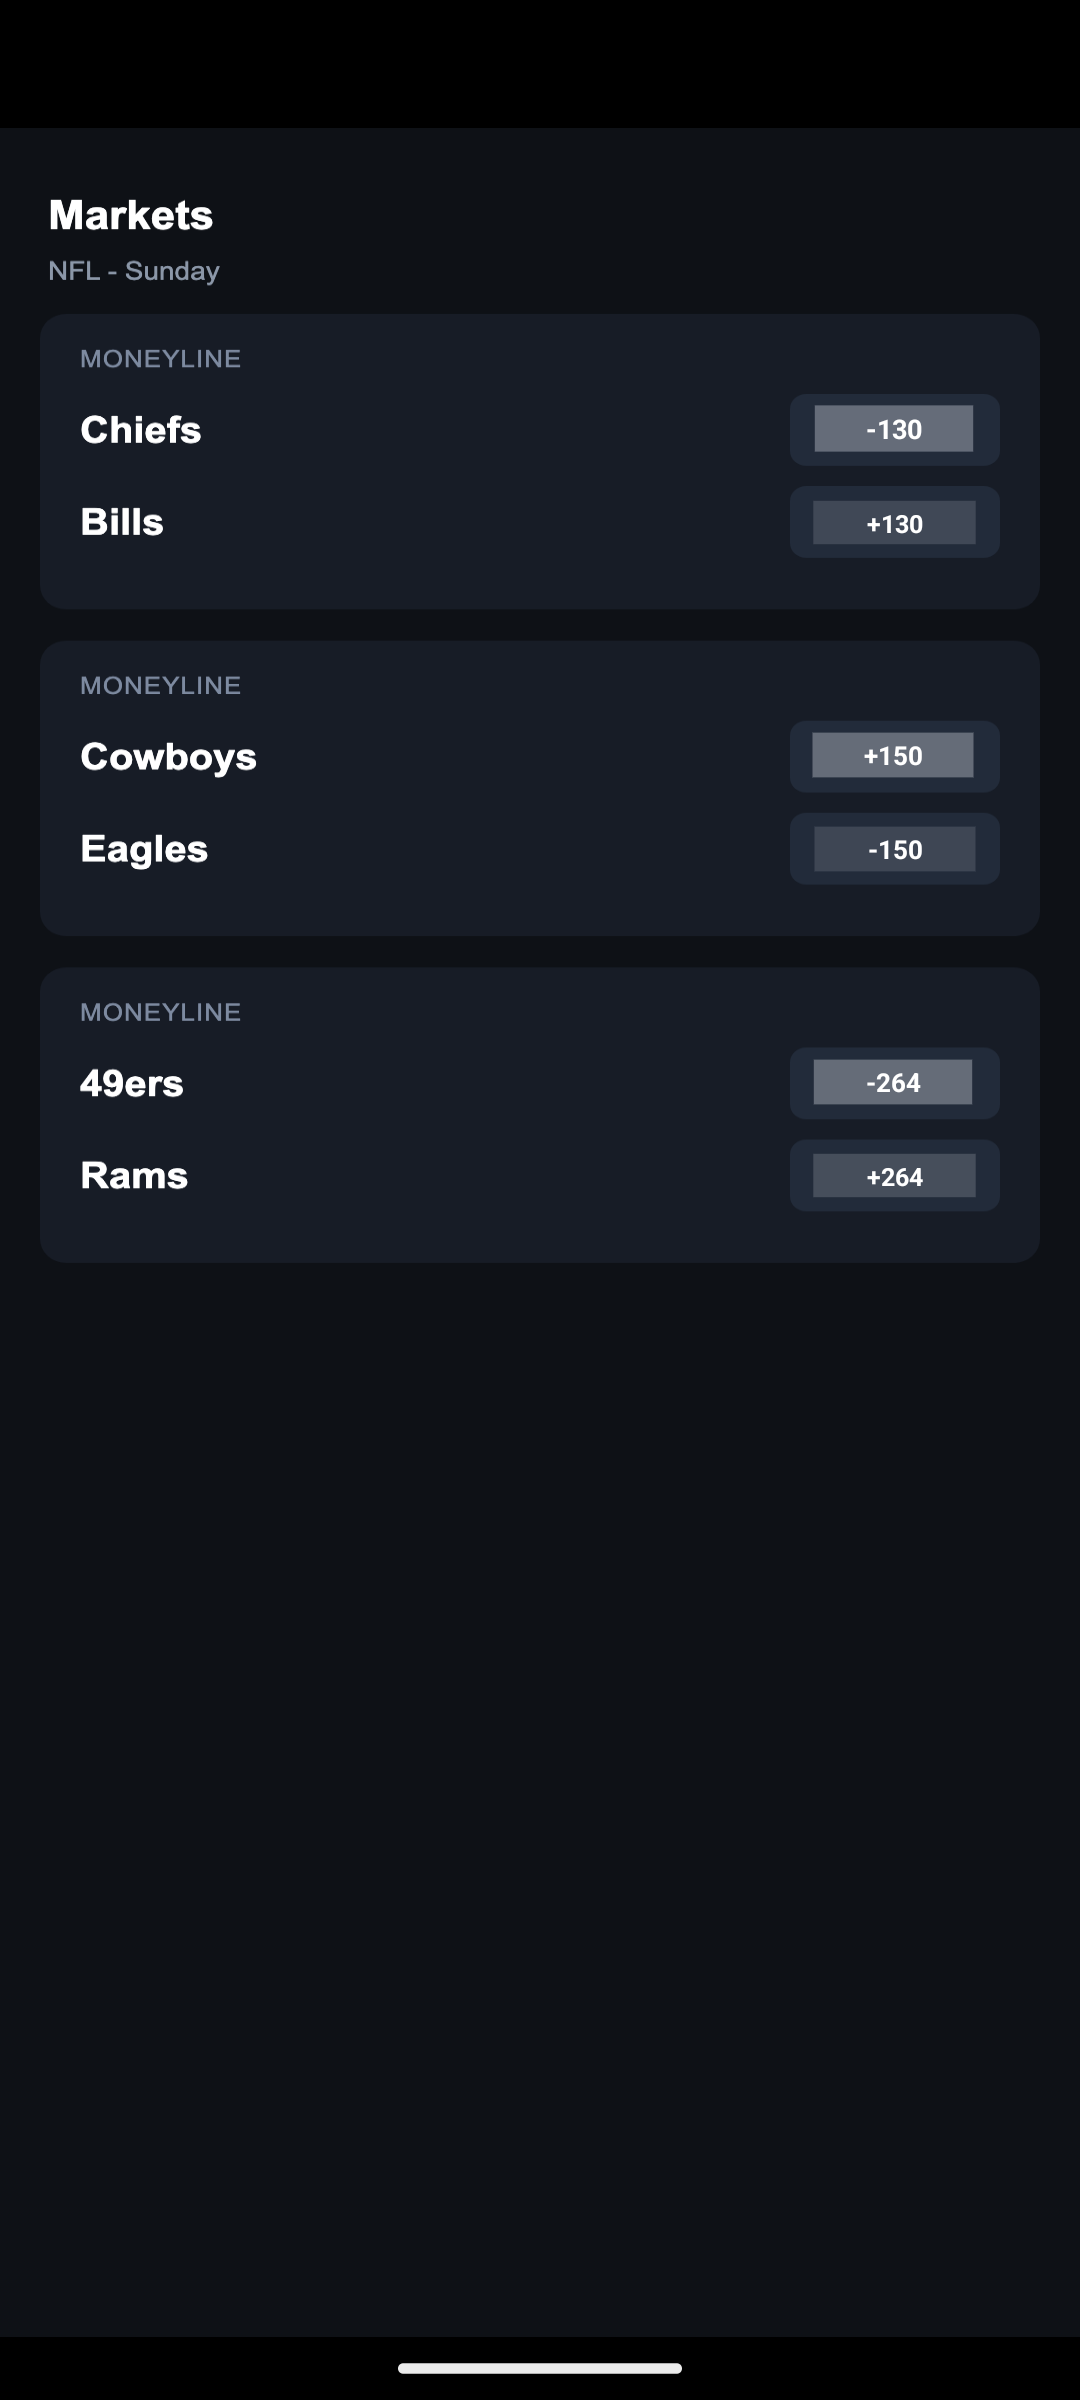
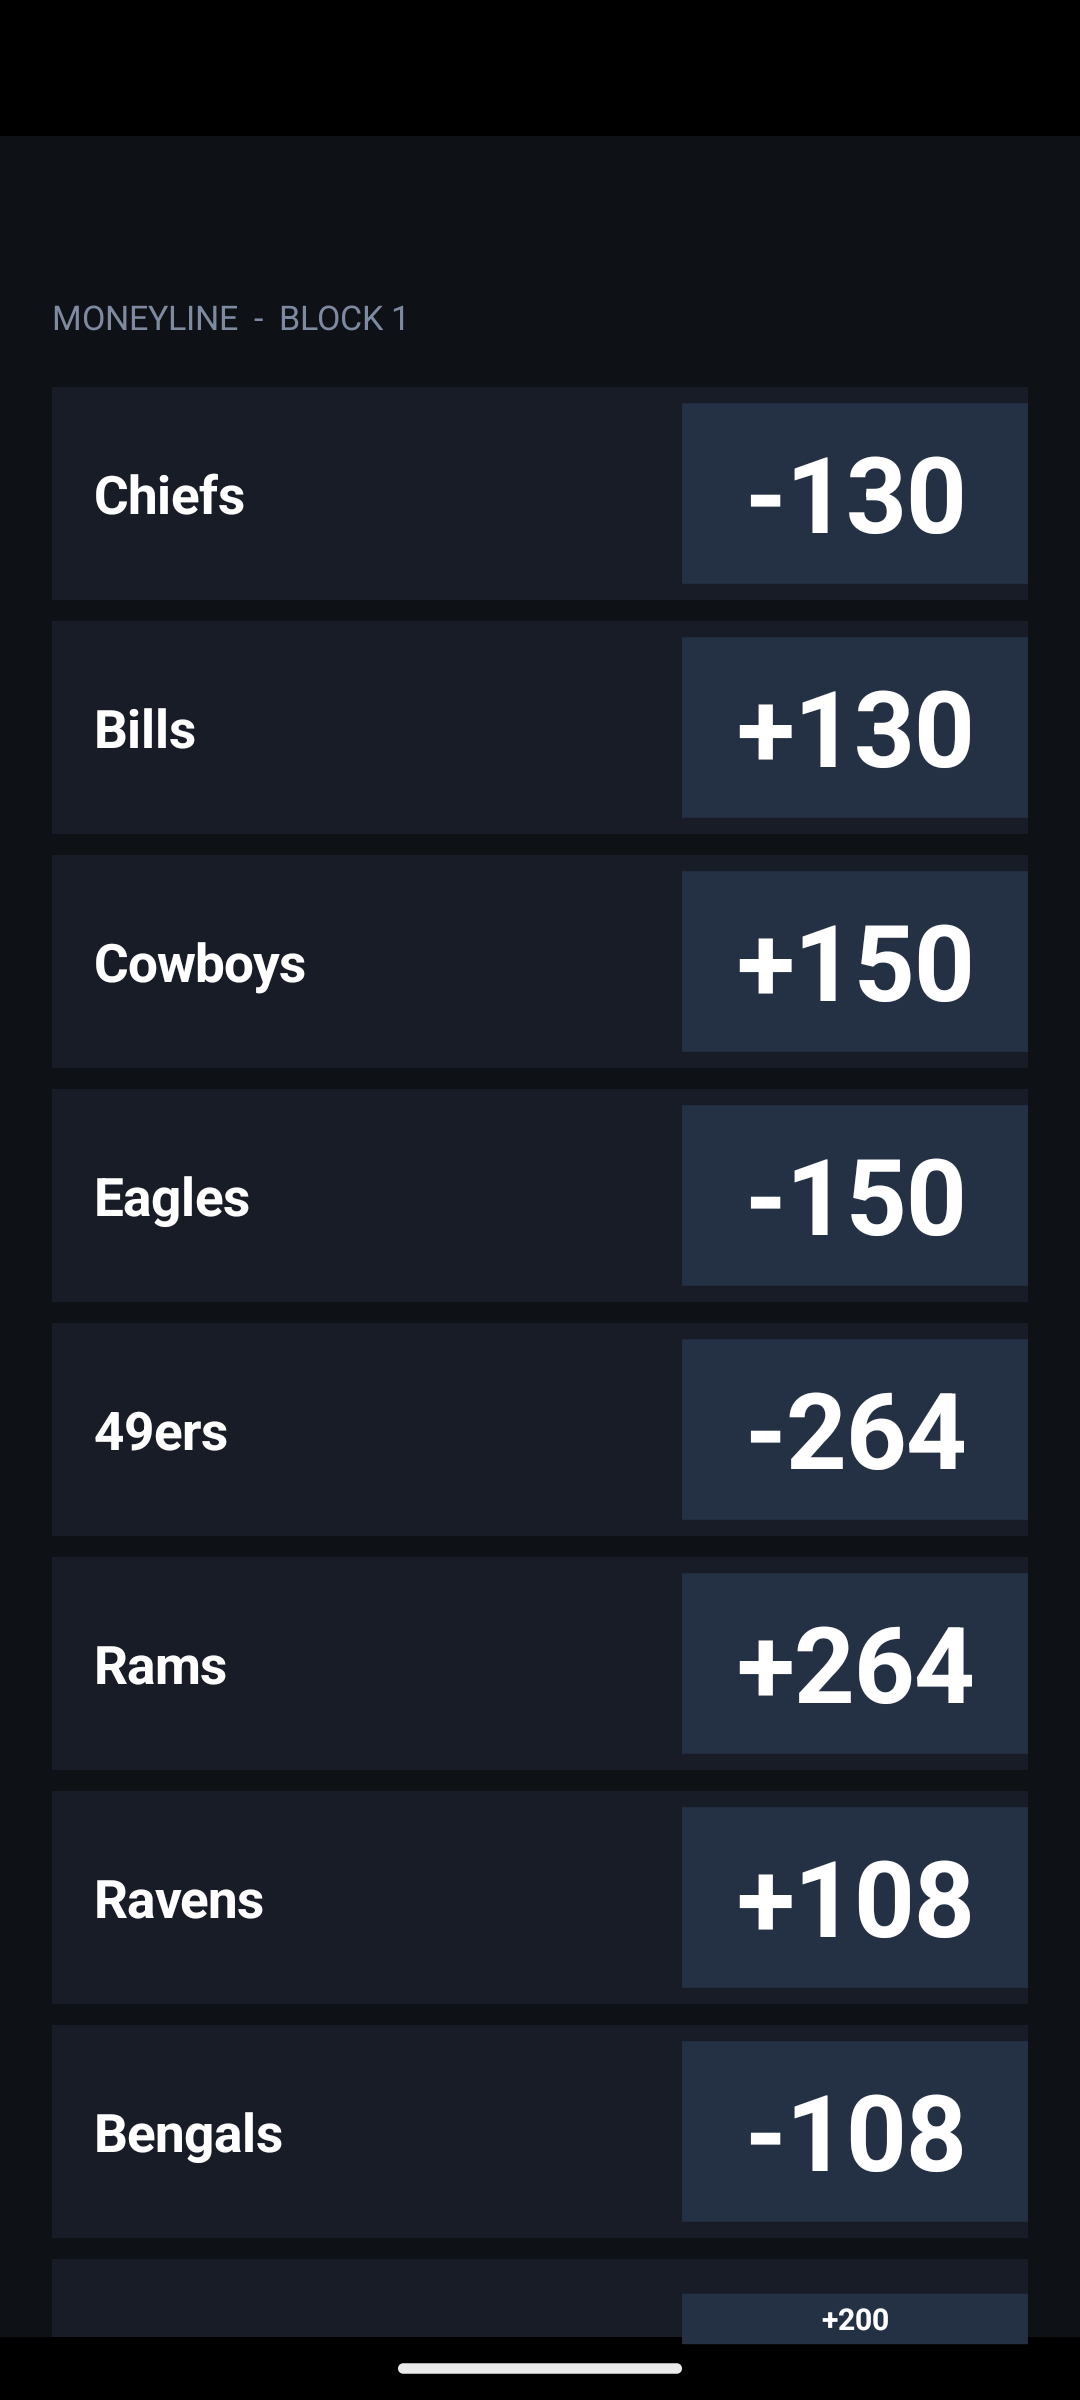
v0.4.1: smooth scrolling, correct theme, setup walkthrough
Scroll: move chips by the scroll delta for 1:1 tracking and re-read a few
times a second to bound drift, instead of re-reading every event (which
snapped chips to stale positions - the lag in the video). Content-changed
reads are suppressed mid-scroll so they don't fight the translation.

Theme: sample the chip colour from an actual odds pill the first time odds
appear, never at arm time - that was catching the light launch splash and
painting white chips on a dark board. Default dark until sampled.

Robustness: reject oversized nodes so a row/list container whose text
includes a percentage can't paint a giant chip.

Page: full "Allow restricted settings" walkthrough (Settings > Apps > app >
More > Allow restricted settings) since that's where setup stalls; corrected
privacy copy now that a version check uses the network.

Verified on emulator: correct dark chips, clean alignment, no stray chips,
scroll-track, no crash.

diff --git a/app/src/main/java/com/bettorodds/oddsoverlay/OddsAccessibilityService.kt b/app/src/main/java/com/bettorodds/oddsoverlay/OddsAccessibilityService.kt
@@ -21,8 +21,9 @@ import kotlinx.coroutines.withContext
  * Watches the foreground app and, inside a target app, paints American odds over its percentages.
  *
  * Reads odds from the view tree (fast, exact, live) and only falls back to a screenshot + OCR when
- * the app exposes no readable text. Reads on a per-frame cadence while scrolling and a lazy cadence
- * when the board is still, and disarms after a spell of inactivity or when the user leaves the app.
+ * the app exposes no readable text. While scrolling it moves chips by the scroll delta every frame
+ * and re-reads a few times a second to correct drift; when still, it barely works. Disarms after a
+ * spell of inactivity or when the user leaves the app.
  */
 class OddsAccessibilityService : AccessibilityService() {
 
@@ -41,20 +42,32 @@ class OddsAccessibilityService : AccessibilityService() {
     private var armed = false
     private var activatedThisVisit = false
     private var chipStyle: ChipStyle = ThemeSampler.DARK
+    private var themeSampled = false
 
     private var readPending = false
     private var pendingFast = false
+    private var lastScrollAt = 0L
+    private var correcting = false
     private var lastOcrAt = 0L
     private var ocrInFlight = false
 
     private val readRunnable = Runnable { readPending = false; readNodes() }
     private val disarmForIdle = Runnable { if (armed) disarm(keepVisit = true) }
+    private val correctionRunnable = object : Runnable {
+        override fun run() {
+            if (!armed) { correcting = false; return }
+            readNodes()  // snap chips back to true positions
+            if (SystemClock.uptimeMillis() - lastScrollAt < SCROLL_END_MS) {
+                handler.postDelayed(this, CORRECTION_MS)
+            } else {
+                correcting = false  // scrolling stopped; this was the final correction
+            }
+        }
+    }
 
     override fun onServiceConnected() {
         windowManager = getSystemService(WINDOW_SERVICE) as WindowManager
-        val bounds = windowManager.currentWindowMetrics.bounds
-        screenWidth = bounds.width()
-        screenHeight = bounds.height()
+        refreshScreenBounds()
     }
 
     override fun onAccessibilityEvent(event: AccessibilityEvent) {
@@ -68,17 +81,23 @@ class OddsAccessibilityService : AccessibilityService() {
             }
 
             AccessibilityEvent.TYPE_WINDOW_CONTENT_CHANGED -> {
-                if (event.packageName == currentTarget) onTargetActivity(fast = false)
+                if (event.packageName != currentTarget) return
+                if (SystemClock.uptimeMillis() - lastScrollAt < SCROLL_END_MS) return
+                onTargetActivity(fast = false)
             }
 
             AccessibilityEvent.TYPE_VIEW_SCROLLED -> {
                 if (event.packageName != currentTarget) return
-                if (armed) {
-                    val dy = event.scrollDeltaY
-                    val dx = event.scrollDeltaX
-                    if (dy != 0 || dx != 0) overlayView?.nudge(-dx.toFloat(), -dy.toFloat())
+                lastScrollAt = SystemClock.uptimeMillis()
+                if (!armed) {
+                    if (activatedThisVisit) arm()   // re-arm after an idle disarm
+                    return
                 }
-                onTargetActivity(fast = true)   // re-arms if idle-disarmed
+                resetIdleTimer()
+                val dy = event.scrollDeltaY
+                val dx = event.scrollDeltaX
+                if (dy != 0 || dx != 0) overlayView?.nudge(-dx.toFloat(), -dy.toFloat())
+                startCorrectionLoop()
             }
         }
     }
@@ -88,7 +107,7 @@ class OddsAccessibilityService : AccessibilityService() {
     private fun onForegroundApp(pkg: String, isDebugBoard: Boolean) {
         if (isDebugBoard || TargetApps.isTarget(this, pkg)) {
             if (pkg == currentTarget) return
-            disarm(keepVisit = false)           // clear the previous app's chips/prompt
+            disarm(keepVisit = false)
             removePrompt()
             currentTarget = pkg
             if (isDebugBoard || TargetApps.isAutoOn(this, pkg)) arm() else showPrompt(pkg)
@@ -97,9 +116,8 @@ class OddsAccessibilityService : AccessibilityService() {
         }
     }
 
-    /** Any interaction inside the target: keep the overlay alive and push out the idle timer. */
     private fun onTargetActivity(fast: Boolean) {
-        if (!armed && activatedThisVisit) arm()      // re-arm after an idle disarm
+        if (!armed && activatedThisVisit) arm()
         if (!armed) return
         resetIdleTimer()
         scheduleRead(fast)
@@ -109,26 +127,22 @@ class OddsAccessibilityService : AccessibilityService() {
         removePrompt()
         armed = true
         activatedThisVisit = true
+        themeSampled = false
         attachOverlay()
-        refreshTheme()
         resetIdleTimer()
-        readNodes()            // paint on the first frame
+        readNodes()             // paint on the first frame
         scheduleRead(fast = true)
     }
 
     private fun disarm(keepVisit: Boolean) {
         armed = false
+        correcting = false
         if (!keepVisit) activatedThisVisit = false
         handler.removeCallbacks(disarmForIdle)
         handler.removeCallbacks(readRunnable)
+        handler.removeCallbacks(correctionRunnable)
         readPending = false
         removeOverlay()
-    }
-
-    private fun currentScreenBounds() {
-        val bounds = windowManager.currentWindowMetrics.bounds
-        screenWidth = bounds.width()
-        screenHeight = bounds.height()
     }
 
     private fun leaveTarget() {
@@ -142,10 +156,15 @@ class OddsAccessibilityService : AccessibilityService() {
         handler.postDelayed(disarmForIdle, IDLE_TIMEOUT_MS)
     }
 
-    /** Fast reads track scrolling; slow reads keep a still board fresh without burning battery. */
+    private fun startCorrectionLoop() {
+        if (correcting) return
+        correcting = true
+        handler.postDelayed(correctionRunnable, CORRECTION_MS)
+    }
+
     private fun scheduleRead(fast: Boolean) {
         if (readPending) {
-            if (fast && !pendingFast) {              // upgrade a lazy read to a fast one
+            if (fast && !pendingFast) {
                 handler.removeCallbacks(readRunnable)
                 pendingFast = true
                 handler.postDelayed(readRunnable, FAST_READ_MS)
@@ -159,7 +178,7 @@ class OddsAccessibilityService : AccessibilityService() {
 
     private fun readNodes() {
         if (!armed) return
-        currentScreenBounds()
+        refreshScreenBounds()
         val root = try {
             rootInActiveWindow
         } catch (e: Exception) {
@@ -168,6 +187,7 @@ class OddsAccessibilityService : AccessibilityService() {
         val result = NodeReader.read(root, screenWidth, screenHeight)
         when {
             result.hits.size >= MIN_HITS_TO_DRAW -> {
+                if (!themeSampled) sampleThemeFrom(result.hits.first())
                 val styled = result.hits.map {
                     StyledHit(it.bounds, it.display, chipStyle.backgroundColor, chipStyle.textColor)
                 }
@@ -178,9 +198,13 @@ class OddsAccessibilityService : AccessibilityService() {
         }
     }
 
-    private fun refreshTheme() {
+    /** Sample the pill colour behind a real odds value - never the whole screen, which could be a
+     *  launch splash or a light status bar - and reuse it for every chip. */
+    private fun sampleThemeFrom(hit: PriceHit) {
+        themeSampled = true
+        val bounds = hit.bounds
         takeScreenshotBitmap { bitmap ->
-            chipStyle = ThemeSampler.sample(bitmap)
+            ChipStyler.sampleStyle(bitmap, bounds)?.let { chipStyle = it }
             bitmap.recycle()
         }
     }
@@ -217,6 +241,12 @@ class OddsAccessibilityService : AccessibilityService() {
                 }
             }
         )
+    }
+
+    private fun refreshScreenBounds() {
+        val bounds = windowManager.currentWindowMetrics.bounds
+        screenWidth = bounds.width()
+        screenHeight = bounds.height()
     }
 
     private fun showPrompt(pkg: String) {
@@ -274,6 +304,8 @@ class OddsAccessibilityService : AccessibilityService() {
         const val MIN_HITS_TO_DRAW = 2
         const val FAST_READ_MS = 16L
         const val SLOW_READ_MS = 150L
+        const val CORRECTION_MS = 90L
+        const val SCROLL_END_MS = 130L
         const val OCR_INTERVAL_MS = 1000L
         const val IDLE_TIMEOUT_MS = 3 * 60 * 1000L
     }

diff --git a/docs/index.html b/docs/index.html
@@ -58,6 +58,10 @@
   .step h3{font-size:16px;margin-bottom:3px}
   .step p{color:var(--mut);font-size:14px}
   .step p .k{color:var(--ink);font-weight:600}
+  .step p.tap{margin-top:8px;padding:10px 12px;background:#0c1526;border:1px solid var(--line);
+    border-radius:10px;color:var(--ink);font-size:13.5px;line-height:1.8}
+  .arw{color:var(--grn);padding:0 4px;font-weight:700}
+  .step p.fine{margin-top:8px;font-size:12.5px;color:var(--mut)}
   .ios{display:none}
   .platform-hide{display:none}
   footer{color:var(--mut);font-size:12.5px;text-align:center;margin-top:40px;line-height:1.7}
@@ -77,47 +81,62 @@
   <!-- ANDROID VIEW -->
   <div id="android">
     <a class="cta" id="dl" href="#">Download for Android</a>
-    <p class="fineprint">Free. Nothing leaves your phone. Not on the Play Store — installs directly.</p>
+    <p class="fineprint">Free. Reads odds on-device; only goes online to check for updates. Not on the Play Store — installs directly.</p>
 
     <div class="note">
       <b>Heads up:</b> to read the odds on screen it uses Android's accessibility setting, so the
       permission screen mentions "view and control your screen." It only reads the odds - nothing is
-      recorded, nothing leaves your phone. Not in the Play Store; installs directly.
+      recorded. Not in the Play Store; installs directly.
     </div>
 
-    <h2>After it downloads</h2>
+    <h2>Set up (about 2 minutes, once)</h2>
 
     <div class="step">
       <div class="num">1</div>
       <div>
-        <h3>Open the file to install</h3>
-        <p>Tap the download. If it warns you, tap <span class="k">Settings</span> then turn on
-        <span class="k">Allow from this source</span> and go back.</p>
+        <h3>Install it</h3>
+        <p>Tap the downloaded file. If it warns you, tap <span class="k">Settings</span>, turn on
+        <span class="k">Allow from this source</span>, go back, and install.</p>
       </div>
     </div>
 
     <div class="step">
       <div class="num">2</div>
       <div>
-        <h3>Open Odds Converter and tap Enable</h3>
-        <p>It sends you to Accessibility settings. Find <span class="k">Odds Converter</span>, turn it
-        on, and confirm. On Android 13+, if it's greyed out, open the app info menu first and tap
-        <span class="k">Allow restricted settings</span>.</p>
+        <h3>Allow restricted settings</h3>
+        <p>Because it installs outside the Play Store, Android hides the switch until you unlock it:</p>
+        <p class="tap">Settings <span class="arw">&rsaquo;</span> Apps <span class="arw">&rsaquo;</span>
+        Odds Converter <span class="arw">&rsaquo;</span> <span class="k">&#8942;</span> (top-right)
+        <span class="arw">&rsaquo;</span> <span class="k">Allow restricted settings</span></p>
+        <p class="fine">Can't find the app? Tap <span class="k">See all apps</span> first. No "restricted
+        settings" line? Your phone doesn't need this - skip to step 3.</p>
       </div>
     </div>
 
     <div class="step">
       <div class="num">3</div>
       <div>
-        <h3>That's it - open your app</h3>
-        <p>A <span class="k">"Show American odds?"</span> prompt pops up. Tap <span class="k">Turn
-        on</span> and the percentages become American odds. Pick <span class="k">Always</span> to
-        skip the prompt next time. It switches off on its own when you leave the app.</p>
+        <h3>Turn on the service</h3>
+        <p class="tap">Settings <span class="arw">&rsaquo;</span> Accessibility
+        <span class="arw">&rsaquo;</span> Odds Converter <span class="arw">&rsaquo;</span>
+        turn it <span class="k">On</span> <span class="arw">&rsaquo;</span> <span class="k">Allow</span></p>
+        <p class="fine">It says "view and control your screen" - that's how it reads the odds. It only
+        reads them; nothing is recorded and nothing leaves your phone.</p>
       </div>
     </div>
-  </div>
 
-  <!-- iOS / OTHER VIEW -->
+    <div class="step">
+      <div class="num">4</div>
+      <div>
+        <h3>Open a prediction market app</h3>
+        <p>A <span class="k">"Show American odds?"</span> prompt pops up - tap
+        <span class="k">Turn on</span>. The percentages become American odds, live as you scroll.
+        Tap <span class="k">Always</span> to skip the prompt next time. It turns off on its own when
+        you leave the app.</p>
+      </div>
+    </div>
+
+    <!-- iOS / OTHER VIEW -->
   <div id="ios" class="ios">
     <div class="note" style="text-align:center">
       <b>This is an Android app.</b><br>
@@ -130,7 +149,7 @@
 
   <footer>
     A Bettor Odds tool. Works on Novig, Kalshi, Polymarket, PrizePicks — and any app you add.<br>
-    Reads the odds on-device only; the app has no internet permission and sends nothing anywhere.
+    Reads the odds entirely on your device. The only time it goes online is to check for a newer version - it never sends anything about your screen or your activity.
   </footer>
 
 </div>

diff --git a/app/src/main/java/com/bettorodds/oddsoverlay/ChipStyler.kt b/app/src/main/java/com/bettorodds/oddsoverlay/ChipStyler.kt
@@ -40,6 +40,23 @@ object ChipStyler {
     }
 
     /**
+     * One chip style sampled from the pill behind a real odds value. Used by the node path, which
+     * knows exact positions but paints from a single style. Sampling an actual odds pill - never the
+     * whole screen - avoids picking up a launch splash or a light status bar.
+     */
+    fun sampleStyle(bitmap: Bitmap, bounds: Rect): ChipStyle? {
+        if (bounds.width() <= 0 || bounds.height() <= 0) return null
+        if (bounds.left < 0 || bounds.top < 0 ||
+            bounds.right > bitmap.width || bounds.bottom > bitmap.height
+        ) return null
+        val background = sampleBackground(bitmap, bounds)
+        return ChipStyle(
+            backgroundColor = background,
+            textColor = if (luminance(background) > LUMINANCE_THRESHOLD) Color.BLACK else Color.WHITE
+        )
+    }
+
+    /**
      * Reads the corners just outside the glyphs. The centre of the box is text, so sampling it
      * would return the foreground color and produce a chip that hides its own number.
      */

diff --git a/app/src/main/java/com/bettorodds/oddsoverlay/NodeReader.kt b/app/src/main/java/com/bettorodds/oddsoverlay/NodeReader.kt
@@ -26,6 +26,9 @@ object NodeReader {
                 bounds.right <= 0 || bounds.left >= screenWidth
             ) return
             if (bounds.width() <= 0 || bounds.height() <= 0) return
+            // Reject container nodes: a real odds pill is small. Anything spanning a big slice of the
+            // screen is a row or list wrapper whose text happens to include a percentage.
+            if (bounds.height() > screenHeight / 5 || bounds.width() > screenWidth * 85 / 100) return
             // De-duplicate: the same value in the same spot can appear on more than one node.
             val key = (bounds.centerX() / 8).toLong() shl 32 or (bounds.centerY() / 8).toLong()
             if (!seen.add(key)) return
